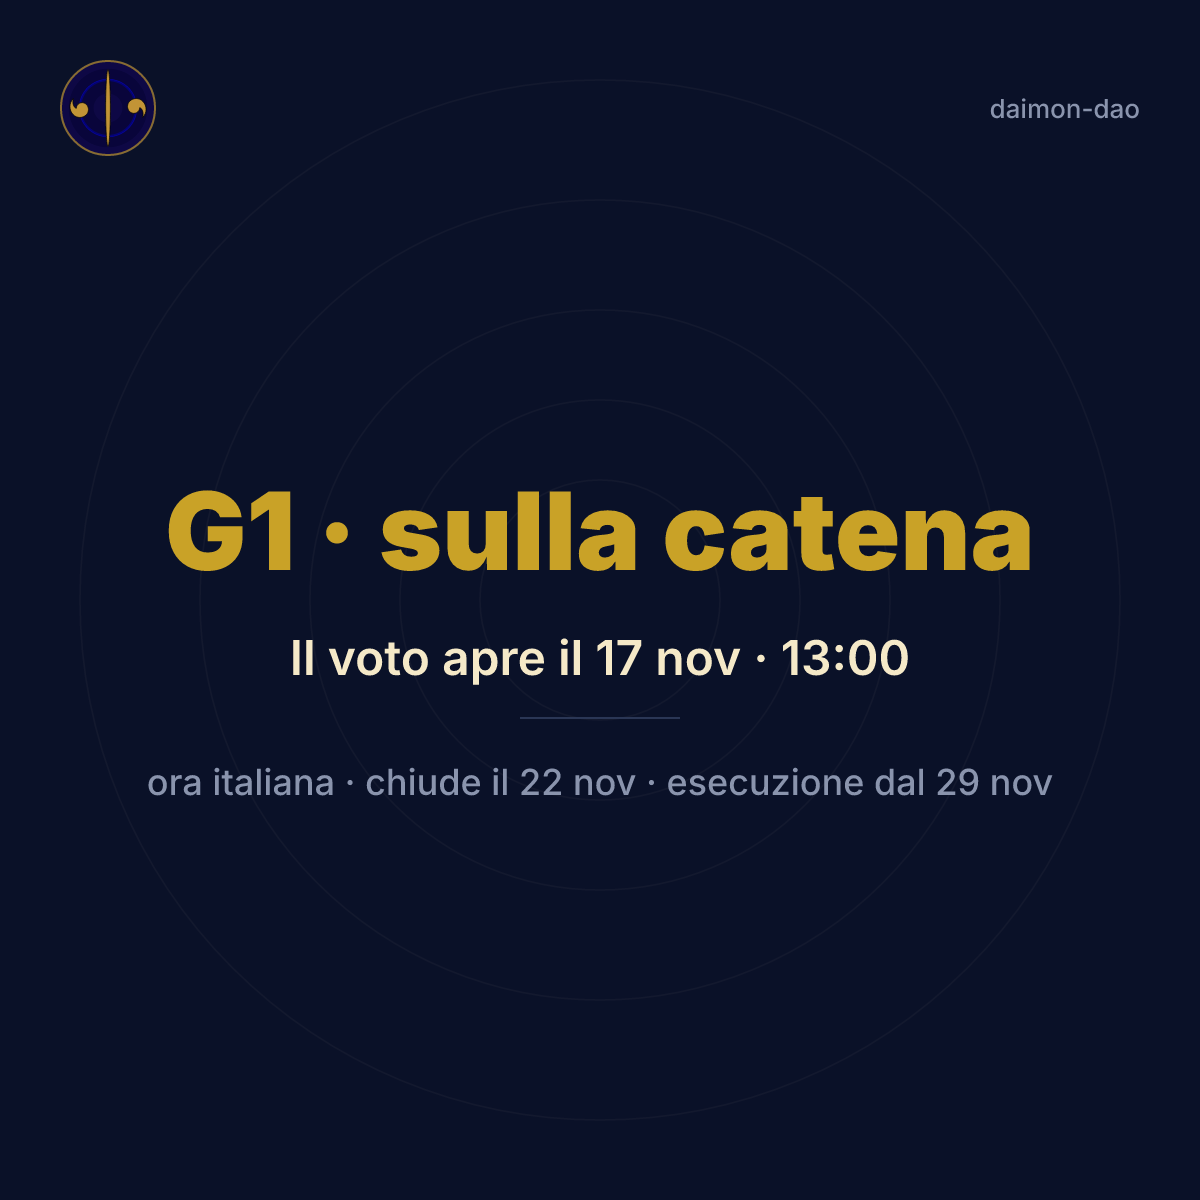
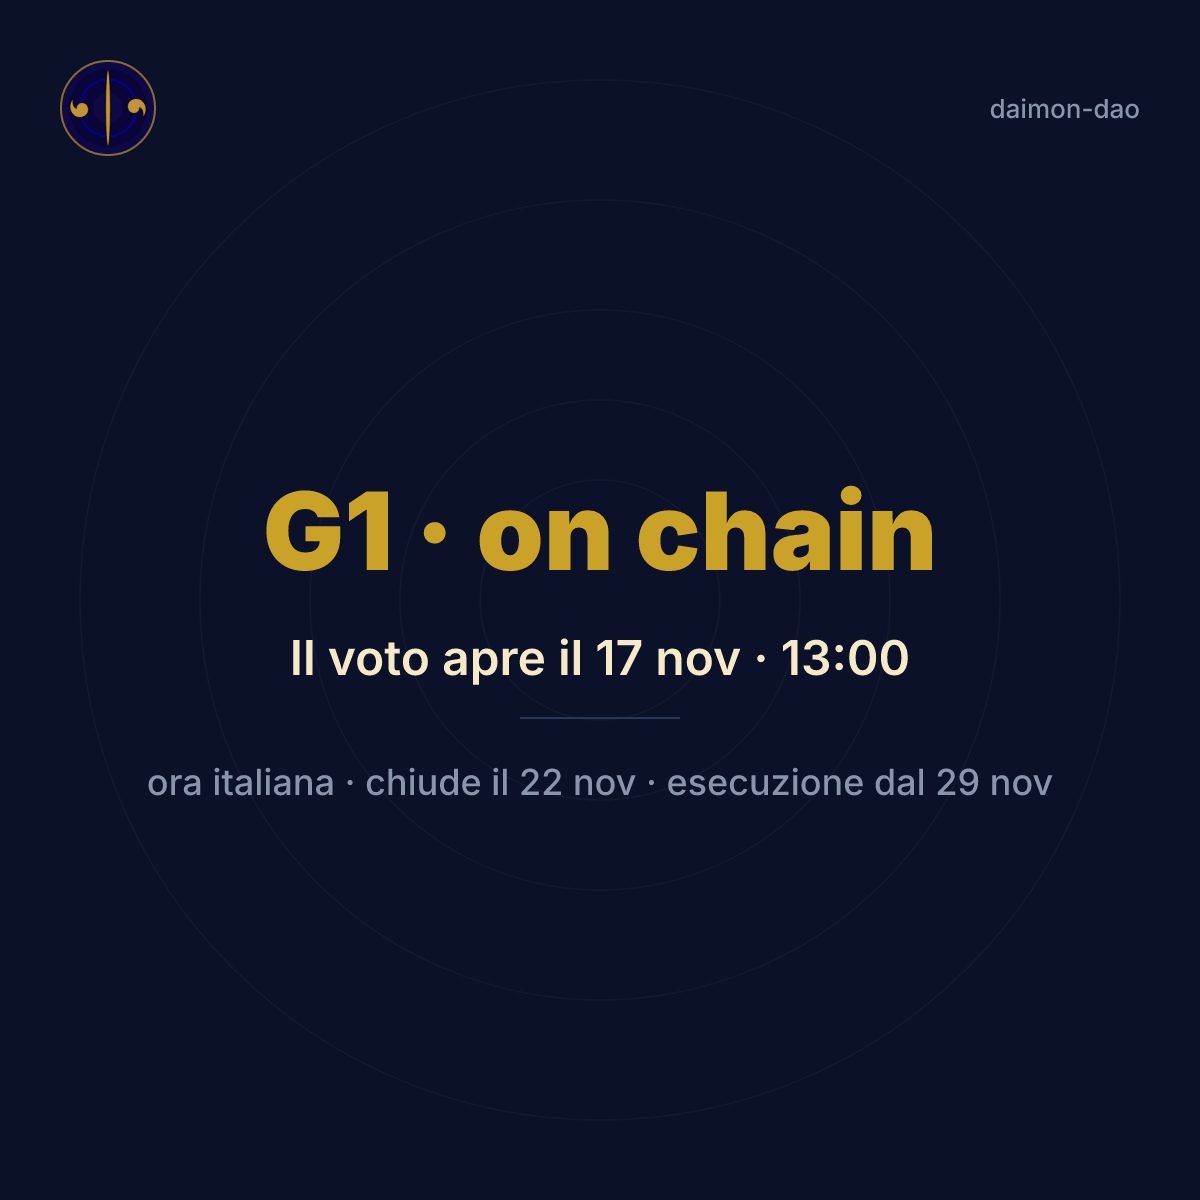
docs: G1 proposed on chain (id 0), rehearsal 2026-11-15, post register

Changed region(s): [[0.1233, 0.4008, 0.8633, 0.4933]]

diff --git a/docs/REGISTRO_POST.md b/docs/REGISTRO_POST.md
@@ -28,6 +28,9 @@ times match the timestamps encoded in the tweet IDs.
 | 2026-10-30 | Telegram channel EN | G1 announcement: the proposal will be created on Mon 2026-11-16 12:00 UTC; today the 2-point marketing branch of the 4 % fee goes 100 % to stakers, G1 sets 60 % to stakers / 40 % to the treasury (the Timelock); reflection and buyback unchanged; stake before the proposal to vote; voting 17-22 Nov, earliest execution 29 Nov; the first BNB reaches the treasury at the next fee conversion | `g1_announce_TG_en` | 13:30 TG channel EN: https://t.me/Daimon_one/83 |
 | 2026-10-30 | Telegram group IT | G1 announcement (IT): the proposal will be created on Mon 2026-11-16 12:00 UTC; today the 2-point marketing branch of the 4 % fee goes 100 % to stakers, G1 sets 60 % to stakers / 40 % to the treasury (the Timelock); reflection and buyback unchanged; stake before the proposal to vote; voting 17-22 Nov, earliest execution 29 Nov; the first BNB reaches the treasury at the next fee conversion | `g1_announce_TG_it` | 13:30 TG group IT: https://t.me/Daimon_Official_Italian_Group/498 |
 | 2026-10-30 | X thread of 5 | G1 announcement: the proposal will be created on Mon 2026-11-16 12:00 UTC; today the 2-point marketing branch of the 4 % fee goes 100 % to stakers, G1 sets 60 % to stakers / 40 % to the treasury (the Timelock); reflection and buyback unchanged; stake before the proposal to vote; voting 17-22 Nov, earliest execution 29 Nov; the first BNB reaches the treasury at the next fee conversion. Tweet 1 opens with the question "Who should decide how a protocol splits its revenue?" and the anchor "0 BNB reached the treasury"; tweet 3 is the quotable one ("The treasury is not a wallet anyone holds...") | `g1_announce_X_en` | 14:15 X: https://x.com/DaimonDAO/status/2116156918737895788 |
+| 2026-11-09 | Telegram IT, Telegram EN; X | "The Myth of Er" (Plato, Republic X): the choice comes before the river of forgetting; the G1 date, Mon 16 Nov 12:00 UTC, as the only figure, over a generative particle scene in the language of daimon.money. Metrics at 3 days (2026-11-12), X first tweet: 82 impressions, 37 engagements, 5 detail expands, 2 profile visits; 19 replies, all from community holders, not bots; 2 reposts, 5 likes. Lesson: an open question with no answer in the first tweet doubled detail expands against the 9/10 post; reach stays near 80, bound by followers, not content. | `g1_er_X_en`, `g1_er_TG_en`, `g1_er_TG_it` | 14:31 TG IT: https://t.me/Daimon_Official_Italian_Group/501 · 14:31 TG EN: https://t.me/Daimon_one/84 · 15:15 X: https://x.com/DaimonDAO/status/2119810996218876281 |
+| 2026-11-13 | Telegram EN, Telegram IT; X thread of 3 | G1 reminder, "three days left to stake": stake before the snapshot, staked DMN is locked for 30 to 365 days, voting 17-22 Nov. Published in the evening instead of the planned afternoon. | `g1_reminder_X_en`, `g1_reminder_TG_en`, `g1_reminder_TG_it` | 17:35 TG EN: https://t.me/Daimon_one/86 · 17:35 TG IT: https://t.me/Daimon_Official_Italian_Group/529 · 18:20 X: https://x.com/DaimonDAO/status/2121307103998734456 |
+| 2026-11-16 | Telegram EN, Telegram IT; X thread of 4 | "G1 on chain": proposal id 0, snapshot block 133923856, voting 17-22 Nov, earliest execution 29 Nov (see [G1_PROPOSAL.md](G1_PROPOSAL.md)). The Italian card carries the title "G1 · on chain". | `g1_live_X_en`, `g1_live_TG_en`, `g1_live_TG_it` | 12:09 TG EN: https://t.me/Daimon_one/87 · 12:23 TG IT: https://t.me/Daimon_Official_Italian_Group/549 · 12:45 X: https://x.com/DaimonDAO/status/2122309962017947907 |
 
 Cards are the PNG files of the same name; they are not kept in the repository.
 

diff --git a/social-assets/README.md b/social-assets/README.md
@@ -23,6 +23,15 @@ SVG rebuild.
 | `quote-verificate.png` | 1600×900 | X post — "Don't trust us. Verify." |
 | `g1_announce_X_en.png` | 1600×900 | X post — G1 announcement: "60 / 40", proposal created Mon 16 Nov 2026 12:00 UTC, stake before it to vote, voting 17–22 Nov, 7-day Timelock. Rendered by `scripts/g1.mjs`. |
 | `g1_announce_TG_en.png`, `g1_announce_TG_it.png` | 1200×1200 | Telegram — the same G1 announcement, English and Italian. Rendered by `scripts/g1.mjs`. |
+| `g1_er_X_en.png` | 1600×900 | X post — "The Myth of Er" (Plato): "The choice comes before the river of forgetting.", the G1 date 16 Nov · 12:00 UTC, over a generative particle scene (seeded, dots only). Rendered by `scripts/g1_er.mjs`. |
+| `g1_er_TG_en.png` | 1200×1200 | Telegram — the same Myth of Er card, English. Rendered by `scripts/g1_er.mjs`. |
+| `g1_er_TG_it.png` | 1200×1200 | Telegram — the same Myth of Er card, Italian ("La scelta viene prima del fiume dell’oblio.", 16 nov · 13:00 · ora italiana). Rendered by `scripts/g1_er.mjs`. |
+| `g1_reminder_X_en.png` | 1600×900 | X post — G1 reminder: "16 Nov · 12:00 UTC" as the giant figure, stake before the proposal to vote on G1. Rendered by `scripts/g1_reminder.mjs`. |
+| `g1_reminder_TG_en.png` | 1200×1200 | Telegram — the same reminder, English. Rendered by `scripts/g1_reminder.mjs`. |
+| `g1_reminder_TG_it.png` | 1200×1200 | Telegram — the same reminder, Italian ("16 nov · 13:00", "ora italiana"). Rendered by `scripts/g1_reminder.mjs`. |
+| `g1_live_X_en.png` | 1600×900 | X post — "G1 · on chain": voting opens 17 Nov · 12:00 UTC, closes 22 Nov, earliest execution 29 Nov. Rendered by `scripts/g1_live.mjs`. |
+| `g1_live_TG_en.png` | 1200×1200 | Telegram — the same "G1 · on chain" card, English. Rendered by `scripts/g1_live.mjs`. |
+| `g1_live_TG_it.png` | 1200×1200 | Telegram — the same card, Italian: title "G1 · on chain", "Il voto apre il 17 nov · 13:00", "ora italiana · chiude il 22 nov · esecuzione dal 29 nov". Rendered by `scripts/g1_live.mjs`. |
 | `github-preview.png` | 1280×640 | Repository social preview (Settings → Social preview). |
 | `logo-512.png` | 512×512 | Square logo (disc + gold ring, transparent corners): root README header, the GitHub organization avatar and daimon.money. Same bytes as `brand/daimon-logo-ring-512.png`. Rendered by `scripts/brand.mjs`. |
 | `brand/` | — | The logo's source of truth (`Logo_DMN_Official.ai`), its SVG rebuild, the gold-ring version (`daimon-logo-ring.svg`) and their PNGs. Which file to use where: [brand/README.md](brand/README.md). |

diff --git a/docs/G1_PROPOSAL.md b/docs/G1_PROPOSAL.md
@@ -1,5 +1,46 @@
 # G1 -- the 60/40 split (the first mainnet proposal)
 
+## Status 2026-11-16: proposed
+
+G1 is on chain. The values below were read from the transaction
+receipt, the `ProposalCreated` log and `proposals(0)` on 2026-11-16
+(block 133924285) and are the ones the Governor now runs on. The
+sections below this one are kept as dated history.
+
+| | |
+|---|---|
[1 lines of base64/hex data omitted]
+| block | 133923857, 2026-11-16 12:00:17 UTC |
+| proposal id | 0 |
+| snapshot block | 133923856 (the block before the propose block) |
+| vote start | 2026-11-17 12:00:17 UTC |
+| vote end | 2026-11-22 12:00:17 UTC (inclusive) |
+| total voting power at the snapshot | 1,505.499395 B |
+| quorum | 150.549940 B (For + Abstain), and For > Against |
+| earliest `queue(0)`, by anyone | 2026-11-22 12:00:18 UTC |
+| earliest `execute(0)`, by anyone | the queue block's timestamp + 604,800 s: 2026-11-29 12:00:18 UTC if queued at the earliest |
+| gas used | 701,175 at 0.05 gwei (0.000035 BNB) |
+
+The transaction input is byte-identical to the 740-byte calldata
+below (keccak `0xf171c8ae…8e6a`); the stored target, value, data and
+description are those bytes, verbatim (description keccak
+`0x959bae3e…0058`). `proposalCount` is 1 and `state(0)` is Pending
+until the vote opens.
+
+**Dress rehearsal of 2026-11-15** (a mainnet fork at block 133762406,
+the committed `script/g1/g1-fork.mjs` unchanged; the records are kept
+outside the repository): 19 of 20 rows passed. R.5, "all other owners
+vote Against, G1 still passes", no longer holds: the real voting power
+grew from 278.25 B (2026-10-01) to 1,504.8 B, while the fork-only
+positions of the rehearsal total 560.07 B, so G1 now passes only if
+the rest of the electorate does not outvote them. This is the Governor
+working as specified, not a failure. Two more differences from the
+2026-10-01 run: propose gas 701,175 (was 696,183), and the poke rows
+needed the script's fork-only arming, because the live fee inventory
+was below `minimumTokensBeforeSwap` after the conversion of 2026-11-13
+(on 2026-10-01 it was above it and no arming was needed). The rows of
+the rehearsal table below are left as written on 2026-10-01.
+
 ## Status 2026-10-29 (block 130515281)
 
 Still **not proposed**: `proposalCount` is 0. The sections below this
